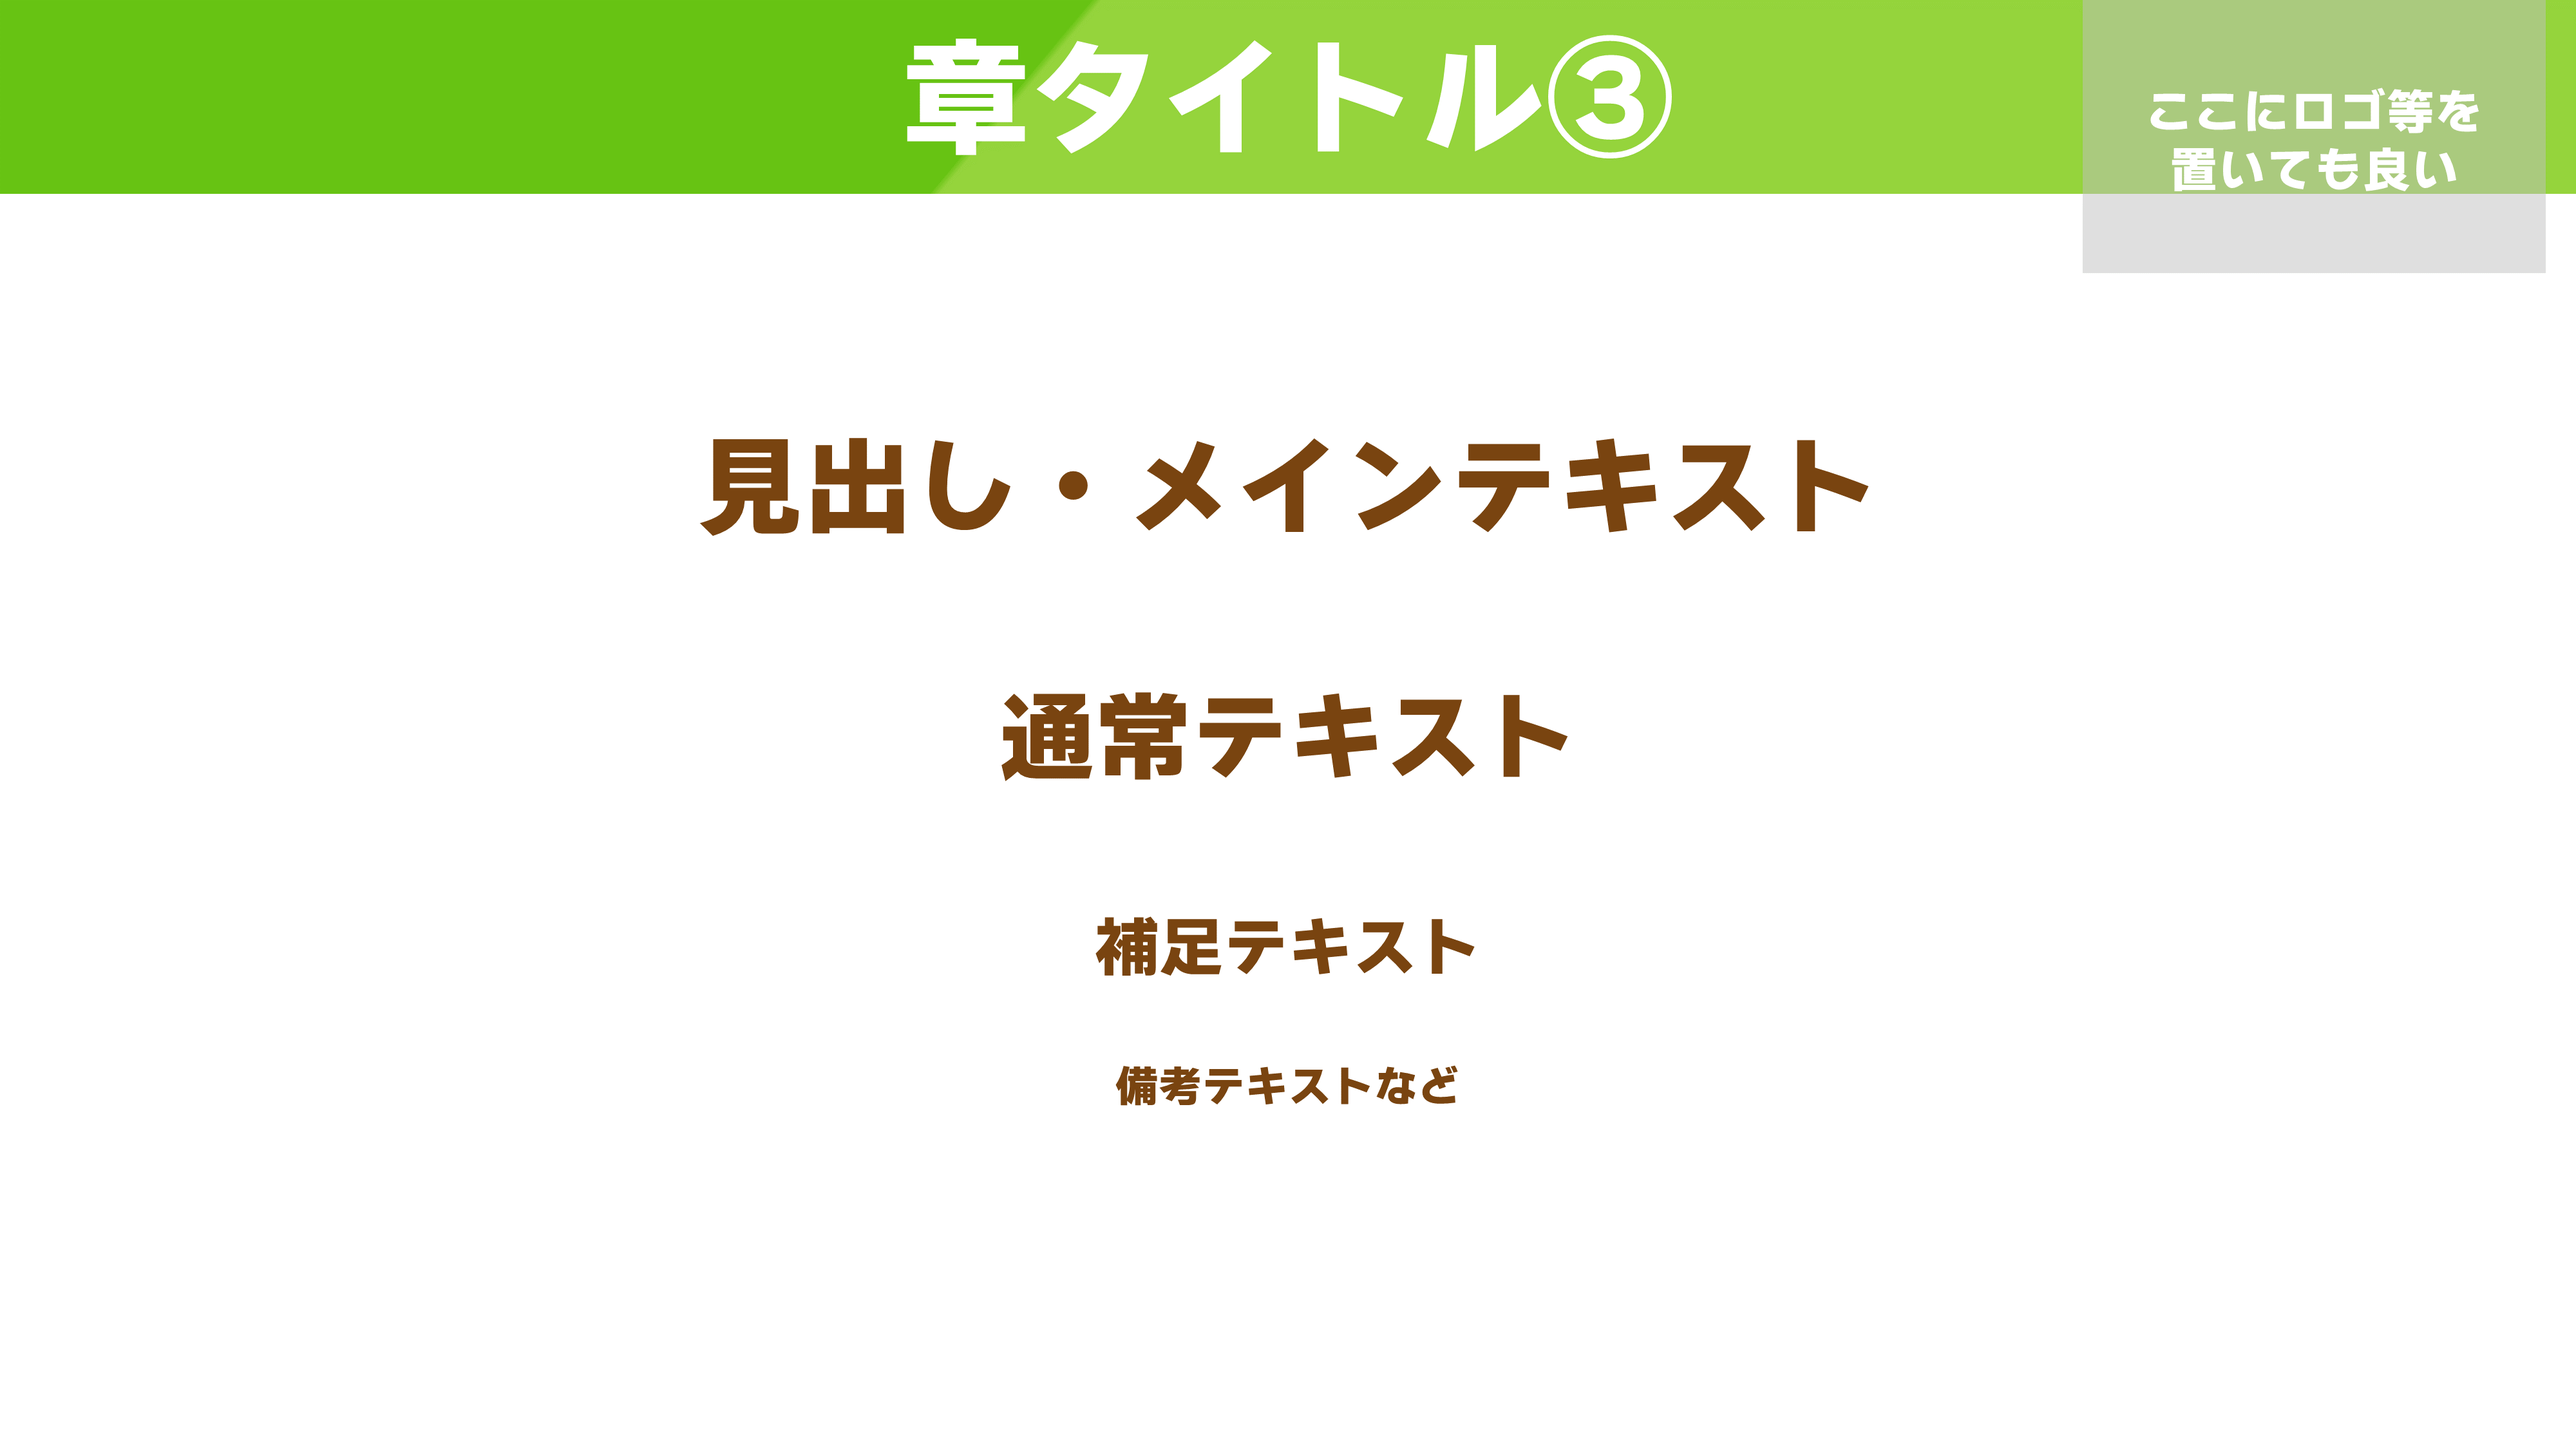
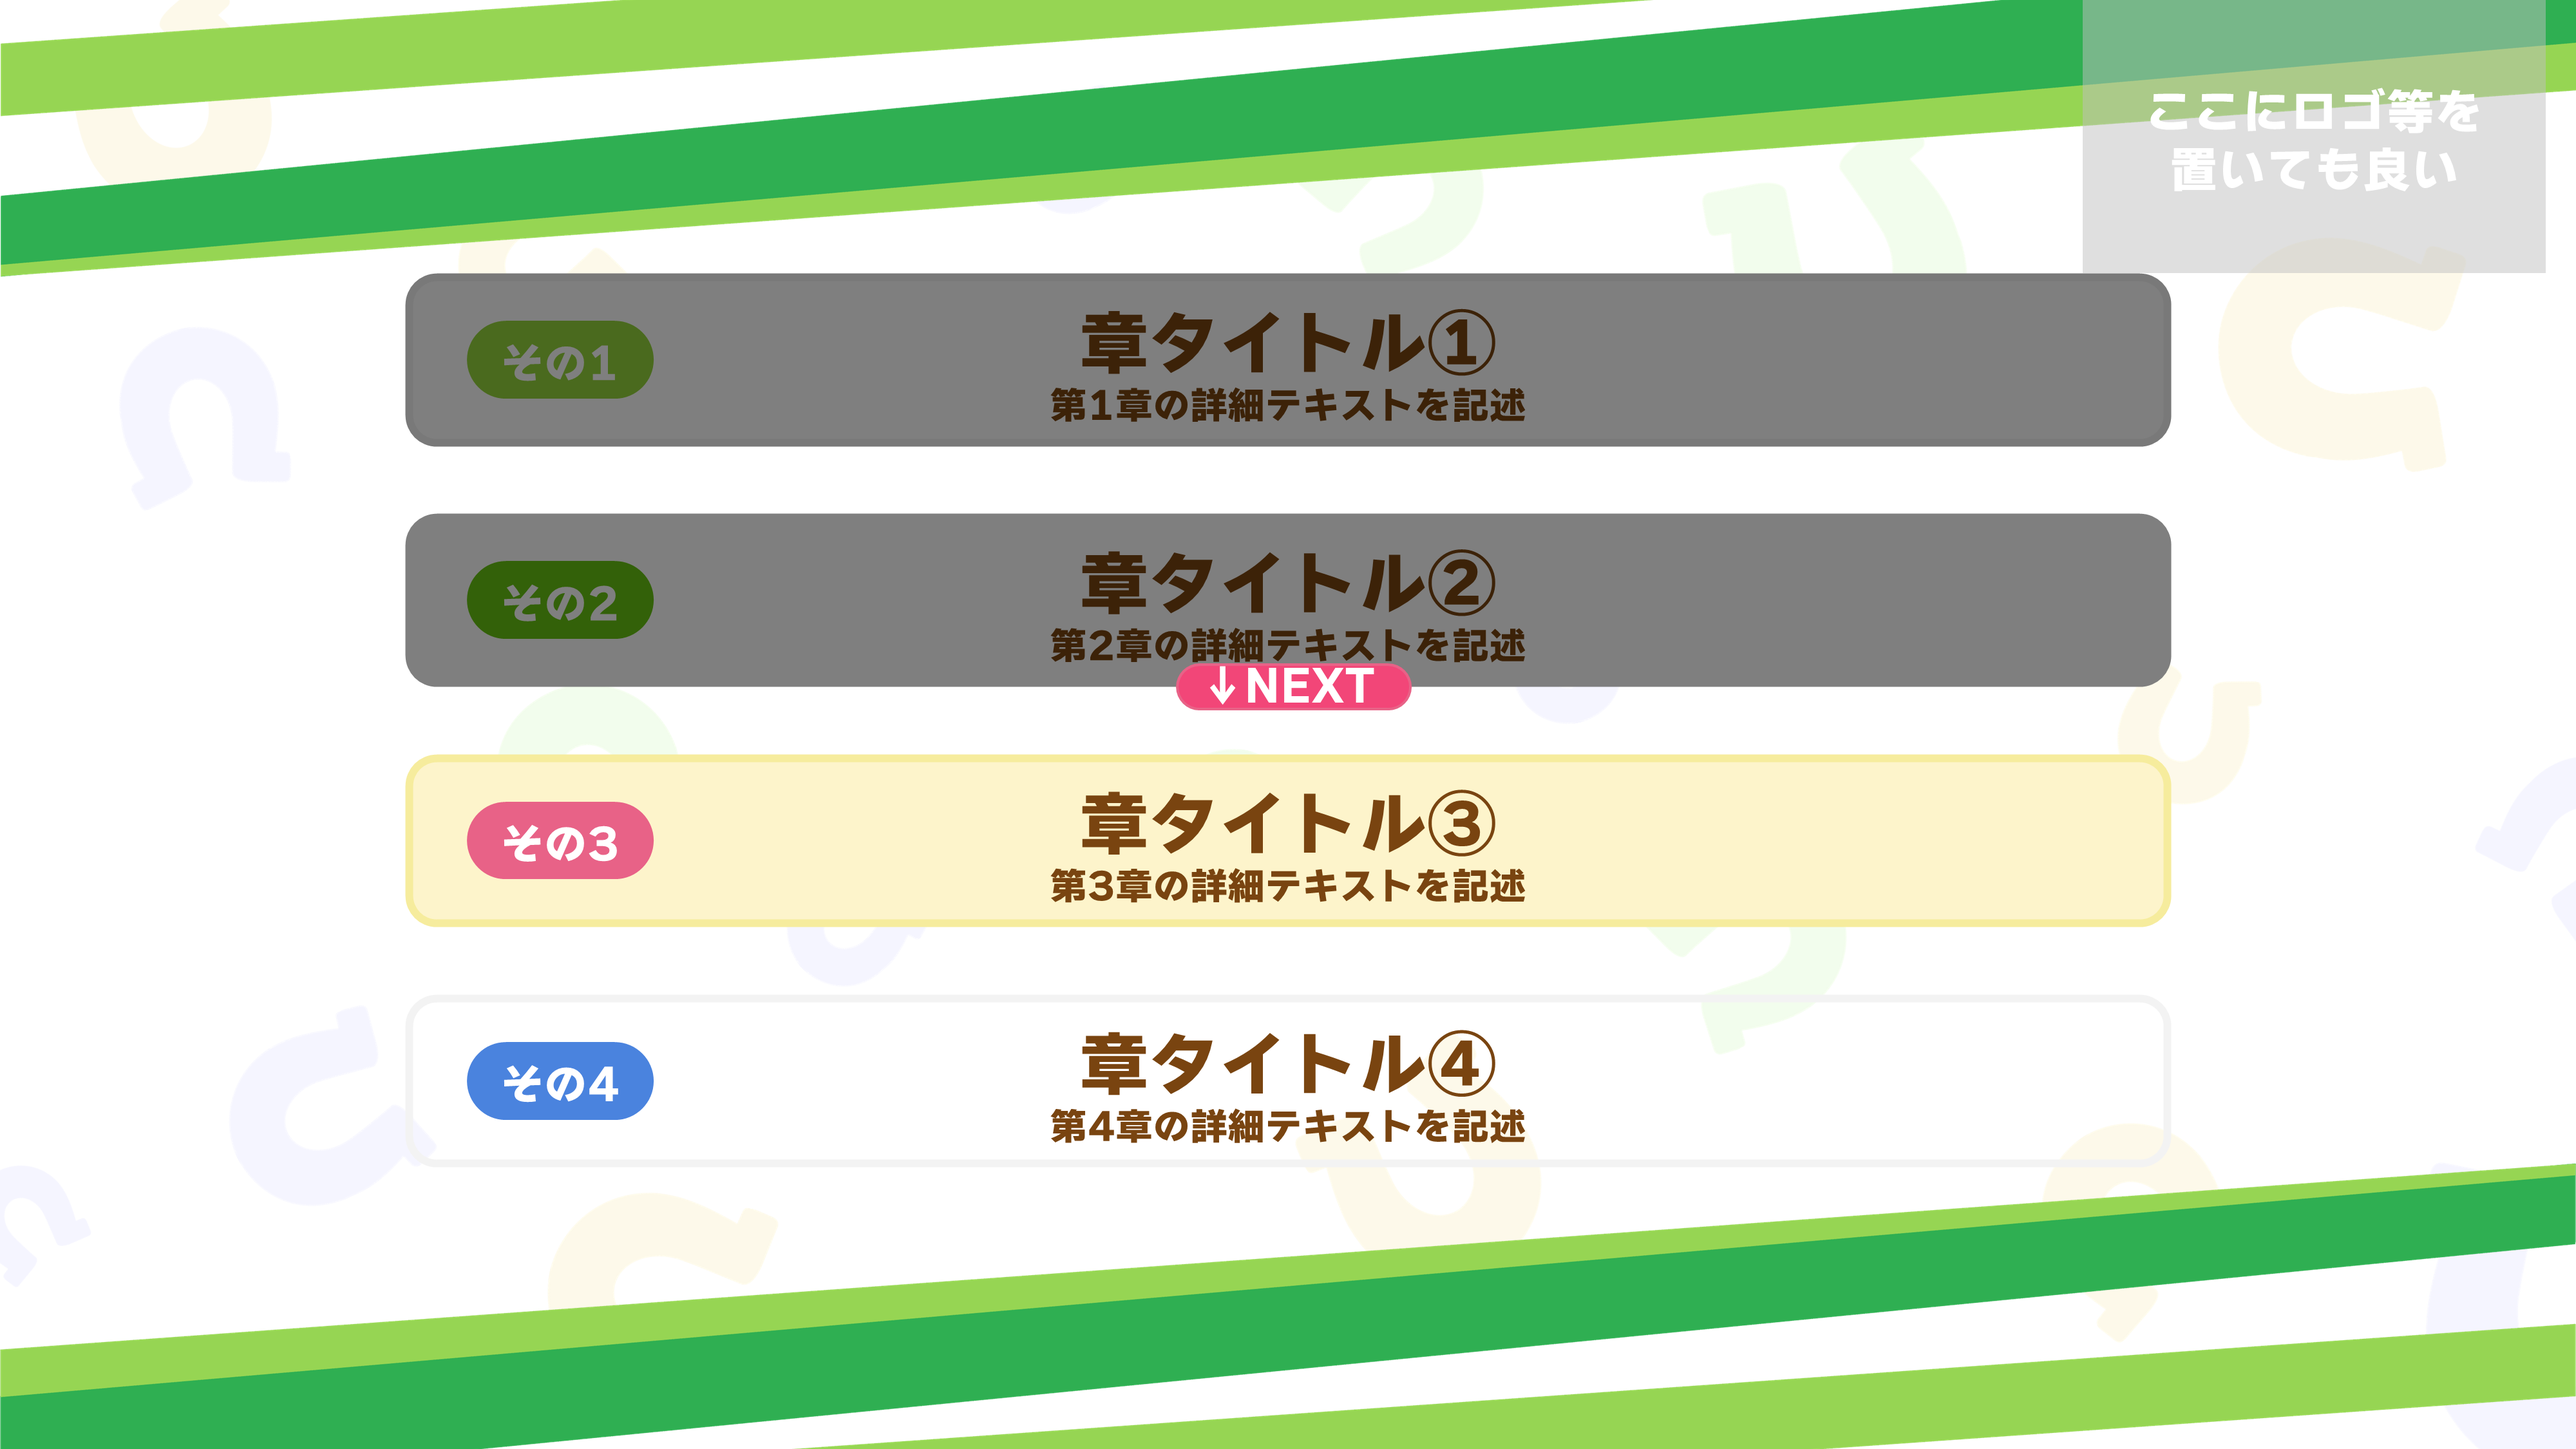
アップデートに伴い、READMEを更新

diff --git a/UmamusumeStyle/UmamusumeStyle.md b/UmamusumeStyle/UmamusumeStyle.md
@@ -22,23 +22,24 @@
 |![アジェンダ](images/slide2.PNG)|
 |:---|
 ### コンテンツ
-|![コンテンツ](images/slide3.PNG)|
+|![コンテンツ](images/slide4.PNG)|
 |:---|
 ### サブコンテンツ
-|![サブコンテンツ](images/slide4.PNG)|
+|![サブコンテンツ](images/slide5.PNG)|
 |:---|
 ### 手順説明
-|![手順説明](images/slide6.PNG)|
+|![手順説明](images/slide7.PNG)|
 |:---|
 ### 使用フォントサイズ
-|![使用フォントサイズ](images/slide8.PNG)|
+|![使用フォントサイズ](images/slide9.PNG)|
 |:---|
 ### 使用カラー
-|![使用カラー](images/slide10.PNG)|
+|![使用カラー](images/slide11.PNG)|
 |:---|
 
 <br>
 <br>
 
 ## 更新履歴
+2023/09/18 背景画像を追加＆アジェンダを編集しやすくしました
 2023/08/11 初版を公開
